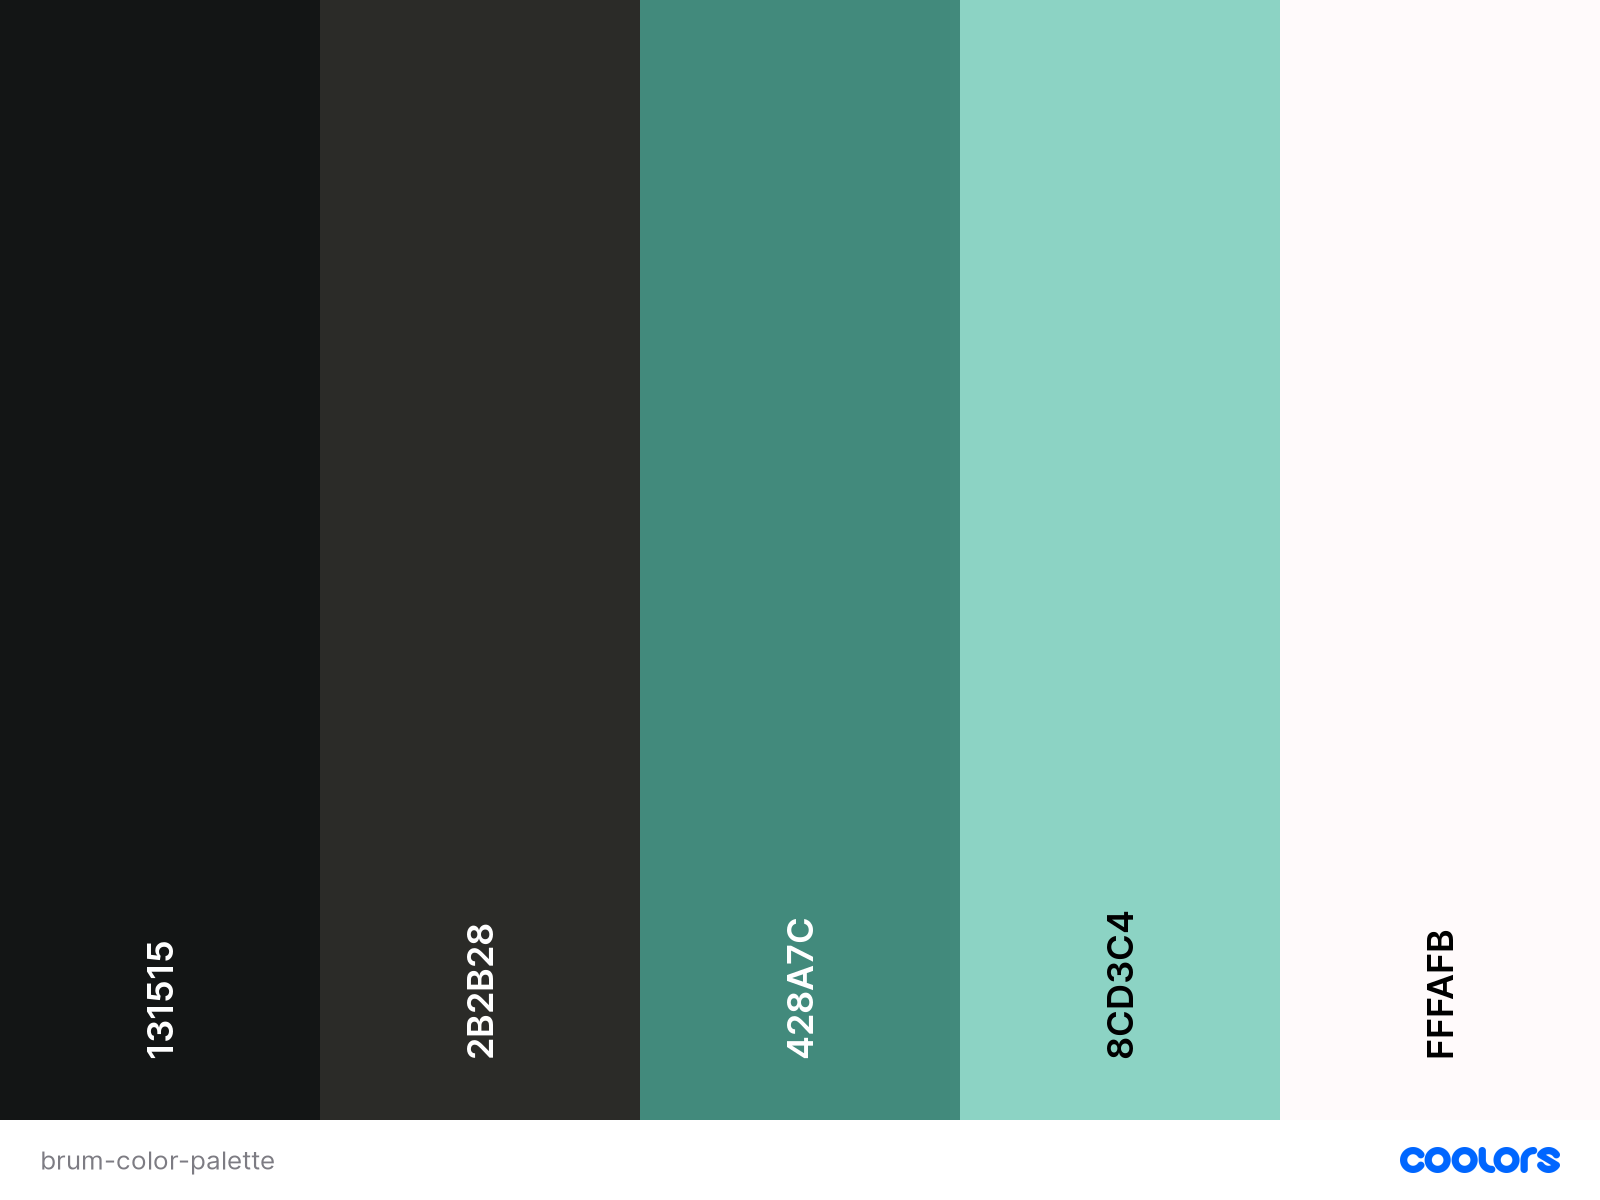
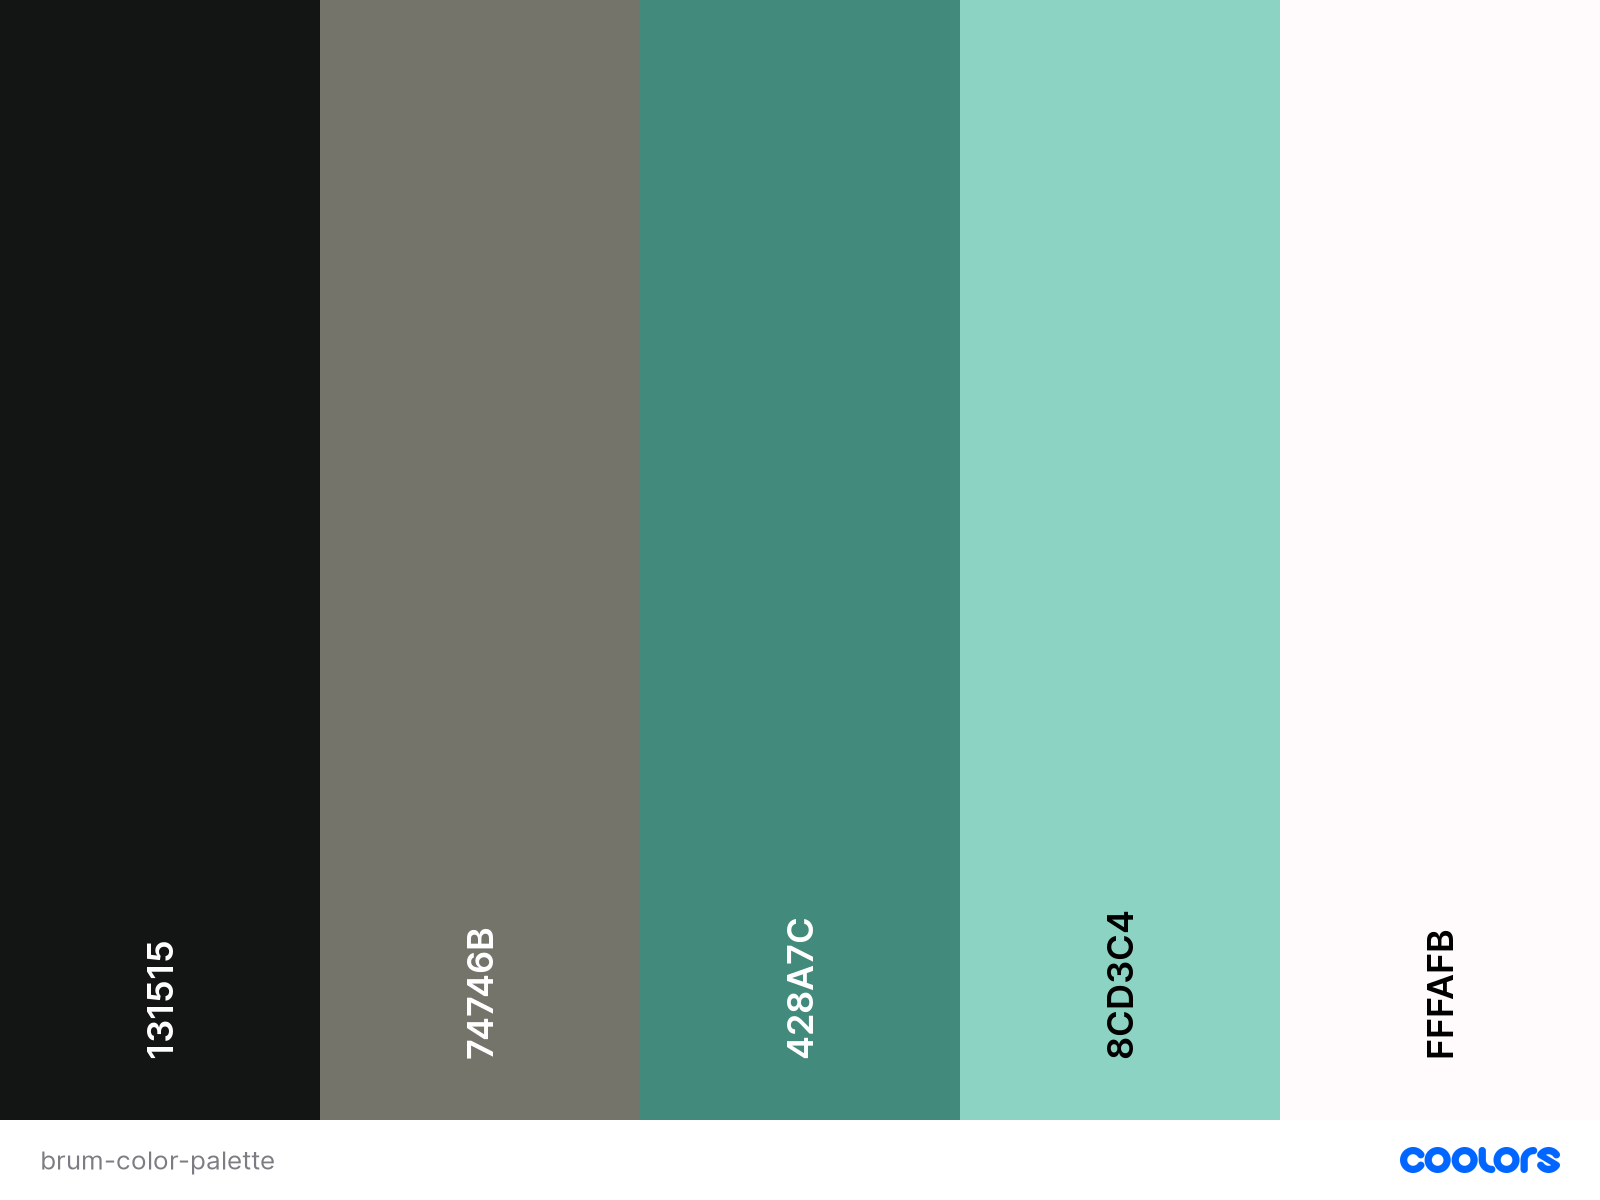
Added a HeadingDivider and an Error component

Changed region(s): [[0.1875, 0.0, 0.4062, 0.9558]]

diff --git a/src/components/interface/interface.js b/src/components/interface/interface.js
@@ -1,6 +1,8 @@
+import Error from './error/error';
+
 import styles from './interface.module.css';
 
-const Title = () => <div className={styles.title}>{'Brum 🚗💨'}</div>;
+const Title = () => <div className={styles.title}>{'BRUM 🚗💨'}</div>;
 const Footer = () => {
     const currentYear = new Date().getFullYear();
     return (
@@ -10,13 +12,22 @@ const Footer = () => {
     );
 };
 
+const HeadingDivider = (props) => {
+    const { heading } = props;
+    return <div className={styles.headingDivider}>{heading.toUpperCase()}</div>;
+};
+
 const Interface = (props) => {
     const { cost, mapError } = props;
     return (
         <div className={styles.interfaceWrapper}>
             <Title />
-            {cost && <div style={{ color: 'white' }}>{Math.round(cost)}</div>}
-            {mapError && <div style={{ color: 'red' }}>{mapError}</div>}
+            <div className={styles.optionsWrapper}>
+                {mapError && <Error error={mapError} />}
+                {!mapError && <div>{cost}</div>}
+                <HeadingDivider heading={'or'} />
+                <div />
+            </div>
             <Footer />
         </div>
     );

diff --git a/src/components/interface/interface.module.css b/src/components/interface/interface.module.css
@@ -10,6 +10,7 @@
     color: #fffafb;
     font-size: 40px;
     margin-left: 10px;
+    letter-spacing: 0.1em;
 }
 
 .footer {
@@ -19,4 +20,39 @@
     align-self: end;
     margin-left: 5px;
     margin-bottom: 5px;
+}
+
+.headingDivider {
+    position: relative;
+    z-index: 1;
+    overflow: hidden;
+    text-align: center;
+    color: #74746b;
+    font-size: 20px;
+    letter-spacing: 0.3em;
+}
+
+.headingDivider:before,
+.headingDivider:after {
+    position: absolute;
+    top: 51%;
+    overflow: hidden;
+    width: 35%;
+    height: 1px;
+    content: '\a0';
+    background-color: #74746b;
+}
+.headingDivider:before {
+    margin-left: -40%;
+    text-align: right;
+}
+.headingDivider:after {
+    margin-left: 5%;
+    text-align: right;
+}
+
+.optionsWrapper {
+    display: grid;
+    grid-template-columns: 1fr;
+    grid-template-rows: 1fr auto 1fr;
 }

diff --git a/src/components/interface/error/error.test.js b/src/components/interface/error/error.test.js
@@ -1,0 +1,18 @@
+import { render, screen } from '@testing-library/react';
+import Error from './error';
+
+const errorText = 'The ice cream has melted!';
+
+test('error is rendered correctly', () => {
+    render(<Error error={errorText} />);
+
+    const errorElement = screen.getByText(errorText, { exact: false });
+    expect(errorElement).toBeInTheDocument();
+});
+
+test('info is rendered correctly', () => {
+    render(<Error error={errorText} />);
+
+    const infoElement = screen.getByText('Please try', { exact: false });
+    expect(infoElement).toBeInTheDocument();
+});

diff --git a/src/components/map/map.js b/src/components/map/map.js
@@ -34,10 +34,10 @@ const Map = (props) => {
             if (route) {
                 return [route.distance, null];
             }
-            return [null, 'No route found.'];
+            return [null, 'No route found'];
         } catch (error) {
             console.error(error);
-            return [null, 'Something went wrong when creating a route.'];
+            return [null, 'Something went wrong when creating a route'];
         }
     };
 

diff --git a/src/components/interface/error/error.module.css b/src/components/interface/error/error.module.css
@@ -1,0 +1,23 @@
+.errorWrapper {
+    display: flex;
+    flex-direction: column;
+    justify-content: center;
+    align-items: center;
+    text-align: center;
+    color: #fffafb;
+}
+
+.error {
+    padding: 5px 10px;
+    font-size: 22px;
+    background-color: #e63946;
+    border-radius: 2px;
+    margin-bottom: 10px;
+    letter-spacing: 0.2em;
+    font-weight: 500;
+}
+
+.info {
+    font-size: 18px;
+    font-weight: 300;
+}

diff --git a/src/components/interface/error/error.js b/src/components/interface/error/error.js
@@ -1,0 +1,14 @@
+import styles from './error.module.css';
+
+const Error = (props) => {
+    return (
+        <div className={`${styles.errorWrapper} ${props.className ?? ''}`}>
+            <div className={styles.error}>{props.error.toUpperCase()}</div>
+            <div className={styles.info}>
+                {'Please try refreshing the page.'}
+            </div>
+        </div>
+    );
+};
+
+export default Error;
